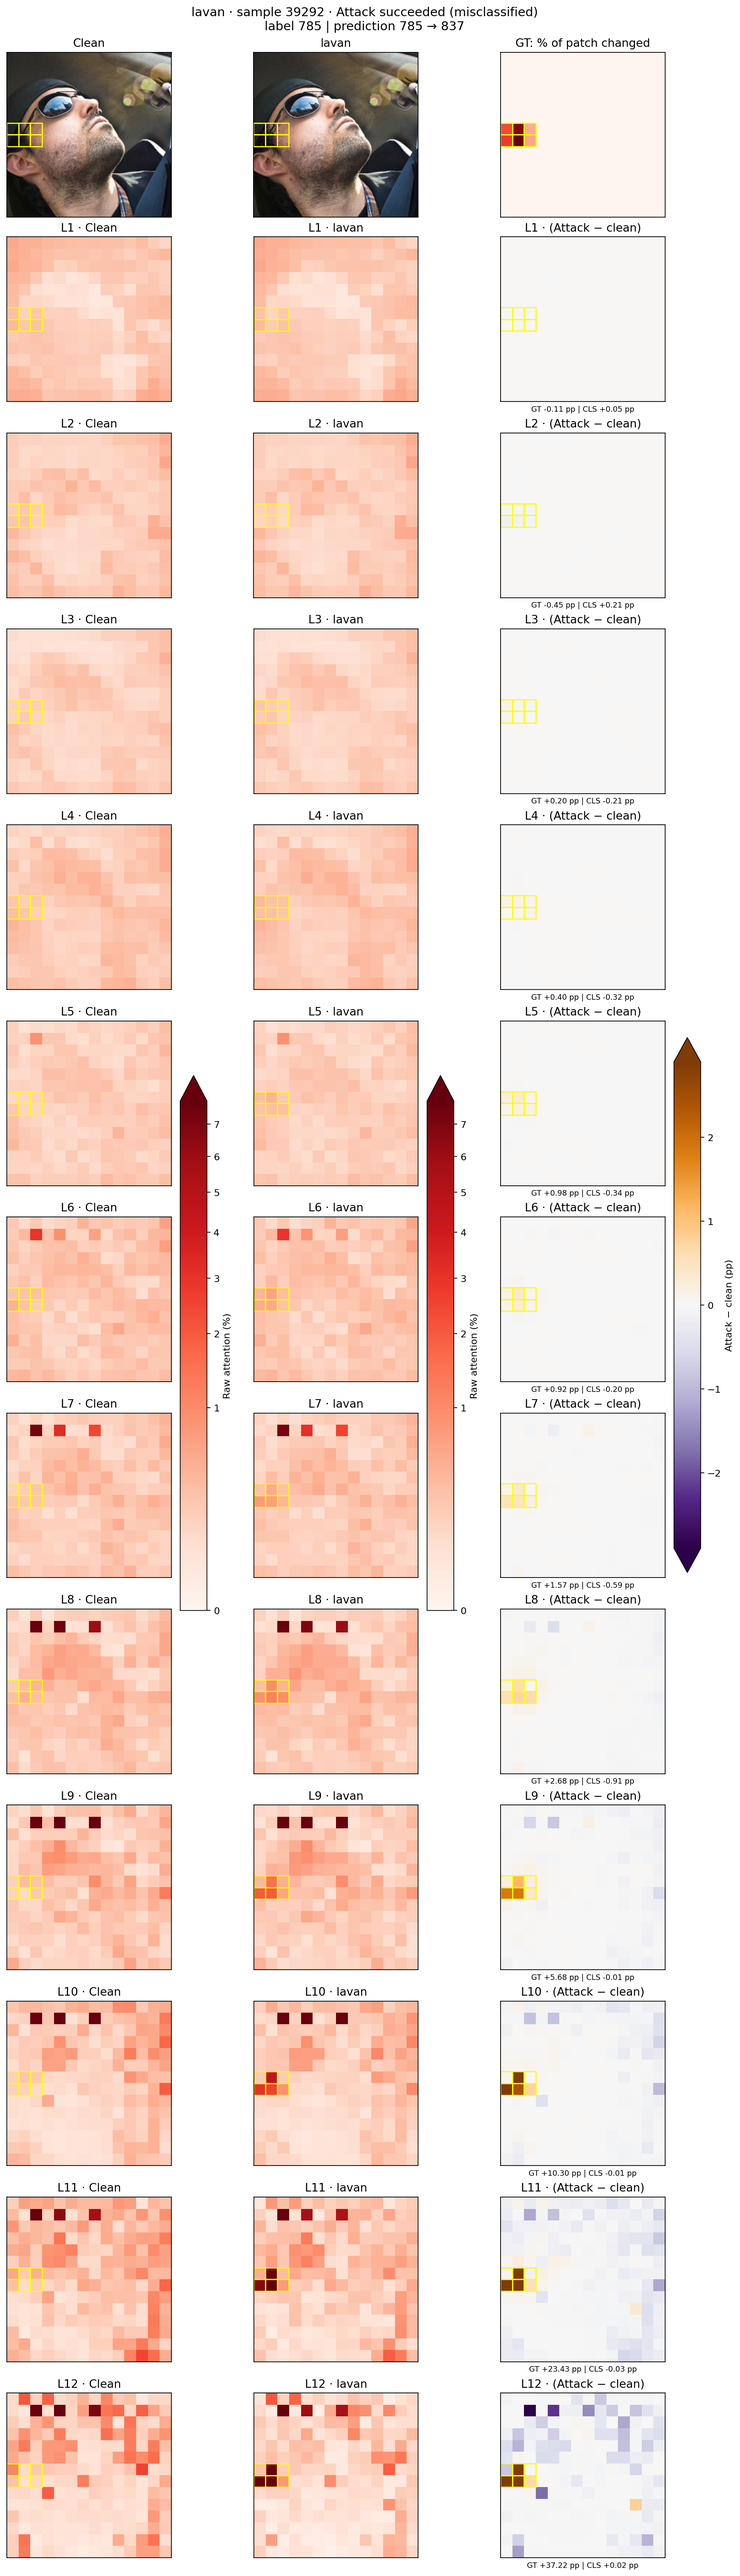
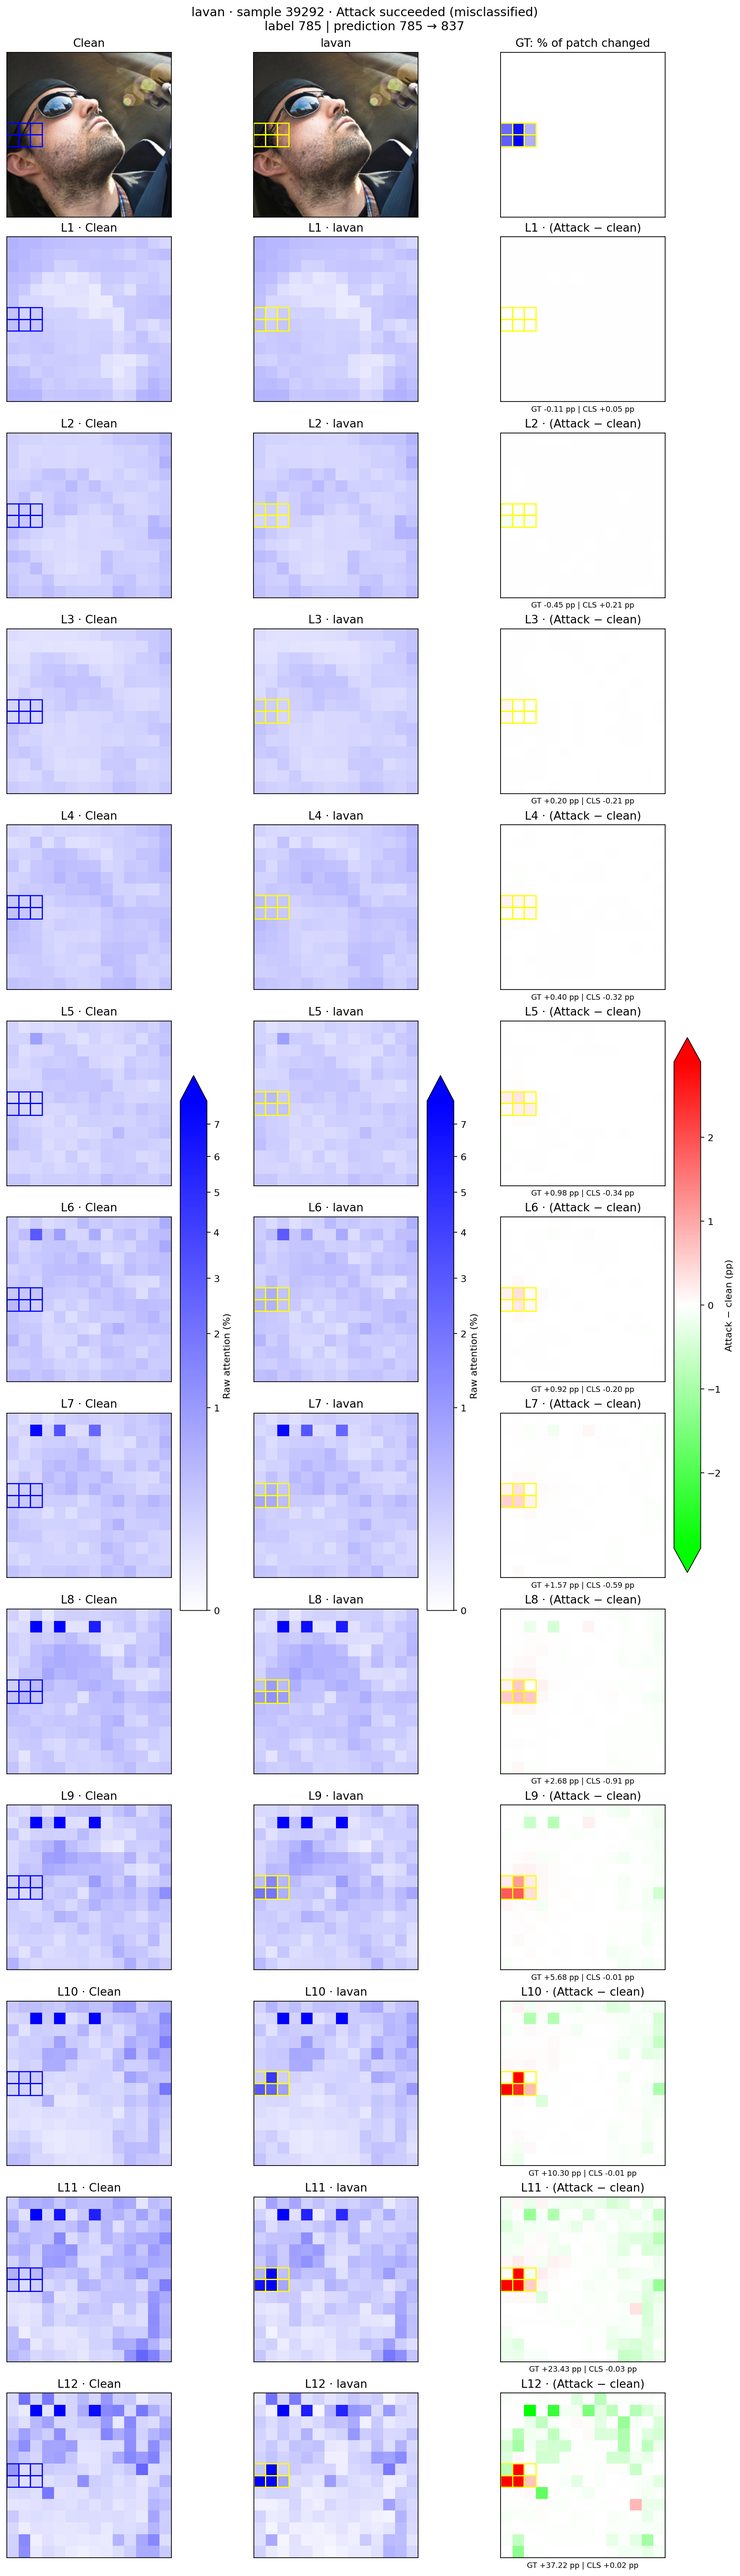
Use draw_boxes clean/attack box colors; blue raw heatmap, green-red difference with pure-color ends
Clean panels outline GT in CLEAN_BOX_COLOR (blue), attacked/difference panels in
ATTACK_BOX_COLOR (yellow), matching ground_truth/draw_boxes.py. Raw attention now
white->pure blue; attack-minus-clean is pure green (lost) -> white -> pure red
(more attention concentrated). Both ends are pure colors instead of trending to
black, which made the panels indistinguishable.

diff --git a/01_patch_attack_detector/experiments/characterization/02_compare_attention_success_failure.py b/01_patch_attack_detector/experiments/characterization/02_compare_attention_success_failure.py
@@ -15,11 +15,11 @@ import numpy as np
 import matplotlib
 matplotlib.use('Agg')
 import matplotlib.pyplot as plt
-from matplotlib.colors import PowerNorm, TwoSlopeNorm
+from matplotlib.colors import LinearSegmentedColormap, PowerNorm, TwoSlopeNorm
 
 HERE = Path(__file__).resolve().parent
 sys.path.insert(0, str(HERE.parents[1] / 'ground_truth'))   # for `import draw_boxes`
-from draw_boxes import draw_patch_box, ATTACK_BOX_COLOR   # noqa: E402 -- GT 박스는 여기서 그대로 가져다 쓴다
+from draw_boxes import draw_patch_box, CLEAN_BOX_COLOR, ATTACK_BOX_COLOR   # noqa: E402 -- GT 박스는 여기서 그대로 가져다 쓴다
 
 MASS_ATOL = 1e-4
 # 결과 이름 자체가 "무엇이 성공/실패했는지"를 말하게 한다 -- "failure"만 보면 공격이
@@ -28,11 +28,10 @@ OUTCOMES = {'attack_success': (1, 'Attack succeeded (misclassified)'),
             'attack_fail': (0, 'Attack failed (still correct)')}
 # 방어 관점에서 공격 성공=critical, 실패=good인 상태 색 사용 -- 이름의 의미와 색이 서로 확인해준다.
 OUTCOME_COLORS = {'attack_success': '#d03b3b', 'attack_fail': '#0ca30c'}
-# 히트맵에는 파란색을 쓰지 않는다(발산 색이 GT 박스의 노랑과 헷갈리지 않게). 순차 색은
-# ColorBrewer 'Reds'(옅은 분홍 -> 짙은 빨강), 발산 색은 'PuOr'(보라<->주황, 파랑 없는
-# 발산 팔레트) -- 둘 다 matplotlib 내장, 색맹 대비까지 이미 검증된 표준 팔레트다.
-SEQUENTIAL = plt.get_cmap('Reds')
-DIVERGING = 'PuOr_r'
+# 양 끝이 검정으로 가면 원본/공격/차이가 다 어두워져서 구분이 안 된다 -- 끝 색을 원색으로 둔다.
+# raw attention: 흰색 -> 순수 파랑. 차이: 감소=순수 초록, 0=흰색, 증가(attention이 더 몰림)=순수 빨강.
+SEQUENTIAL = LinearSegmentedColormap.from_list('white_blue', ['#ffffff', '#0000ff'])
+DIVERGING = LinearSegmentedColormap.from_list('green_white_red', ['#00ff00', '#ffffff', '#ff0000'])
 METRICS = {'tv': 'Total variation', 'gt_delta': 'Attention change in GT region (pp)'}
 
 
@@ -136,12 +135,13 @@ def save_figure(figure, path):
     plt.close(figure)
 
 
-def draw_gt(axis, coverage, side):
+def draw_gt(axis, coverage, side, color):
     """부분적으로라도 변경된 토큰에 테두리를 표시한다 -- ground_truth/draw_boxes.py의
-    draw_patch_box를 그대로 쓴다(색도 거기 정의된 ATTACK_BOX_COLOR로 통일). 이 맵은
-    imshow 기본 extent(칸 중심이 정수 좌표)라 patch_size=1, offset=-.5로 반 칸 보정한다."""
+    draw_patch_box를 그대로 쓴다. draw_boxes.py와 같은 규약: clean 패널은 CLEAN_BOX_COLOR(파랑),
+    공격 후/차이 패널은 ATTACK_BOX_COLOR(노랑). 이 맵은 imshow 기본 extent(칸 중심이 정수
+    좌표)라 patch_size=1, offset=-.5로 반 칸 보정한다."""
     for patch_i in np.flatnonzero(coverage > 0):
-        draw_patch_box(axis, int(patch_i), ATTACK_BOX_COLOR, ppl=side, patch_size=1, lw=1.2, offset=-.5)
+        draw_patch_box(axis, int(patch_i), color, ppl=side, patch_size=1, lw=1.2, offset=-.5)
 
 
 def robust_scale(values, percentile=99):
@@ -171,15 +171,15 @@ def draw_maps(data, manifest, attack, sample_i, metrics, layers, scales, status_
     attack_img = np.clip((data[attack + '__images'][sample_i] * std + mean).transpose(1, 2, 0), 0, 1)
     coverage_pct = coverage.reshape(side, side) * 100
 
-    top_panels = [(0, clean_img, 'Clean', False), (1, attack_img, attack, False),
-                 (2, coverage_pct, 'GT: % of patch changed', True)]
-    for column, image, title, is_coverage in top_panels:
+    top_panels = [(0, clean_img, 'Clean', False, CLEAN_BOX_COLOR), (1, attack_img, attack, False, ATTACK_BOX_COLOR),
+                 (2, coverage_pct, 'GT: % of patch changed', True, ATTACK_BOX_COLOR)]
+    for column, image, title, is_coverage, box_color in top_panels:
         axis = axes[0, column]
         if is_coverage:
             axis.imshow(image, cmap=SEQUENTIAL, vmin=0, vmax=100, extent=extent)
         else:
             axis.imshow(image, extent=extent)
-        draw_gt(axis, coverage, side)
+        draw_gt(axis, coverage, side, box_color)
         axis.set_title(title)
         axis.set_xticks([])
         axis.set_yticks([])
@@ -198,7 +198,7 @@ def draw_maps(data, manifest, attack, sample_i, metrics, layers, scales, status_
             else:
                 image = axis.imshow(values, cmap=SEQUENTIAL, norm=mass_norm, interpolation='nearest')
             column_image[column] = image
-            draw_gt(axis, coverage, side)
+            draw_gt(axis, coverage, side, CLEAN_BOX_COLOR if key == 'clean' else ATTACK_BOX_COLOR)
             axis.set_title(f'L{layer_i + 1} · {title}')
             axis.set_xticks([])
             axis.set_yticks([])
@@ -366,11 +366,12 @@ def main():
         'misclassified) vs. `ex_attack_fail_*` (attack failed, image still correct). These '
         'names describe the ATTACK\'s outcome, not a pipeline failure.\n'
         '- Maps show CLS-query attention to each patch key, head-averaged, CLS key mass kept '
-        '(not renormalized away). The yellow box (same color as ground_truth/draw_boxes.py\'s '
-        'ATTACK_BOX_COLOR, reused directly from there) marks GT patches (any pixel actually changed).\n'
-        '- No blue anywhere: sequential color (white -> dark red, \'Reds\') covers raw attention; '
-        'diverging color (purple negative / orange positive, \'PuOr_r\') covers attack-minus-clean '
-        'change, centered on zero. Both '
+        '(not renormalized away). GT patches (any pixel actually changed) are outlined with '
+        'ground_truth/draw_boxes.py\'s colors, reused directly: blue on Clean panels, yellow on '
+        'attacked/difference panels.\n'
+        '- Raw attention: white -> pure blue. Attack-minus-clean: pure green (attention lost) -> '
+        'white (no change) -> pure red (attention concentrated more). Ends are pure colors, not '
+        'dark/black, so panels stay distinguishable at the extremes. Both '
         'use a 99.5th-percentile cap (not the true max) shared across every block of a given '
         'attack, so a single extreme sample or patch can\'t blank out the rest, while the real '
         'block-to-block story (near-zero early on, then increasingly concentrated) still shows. '

diff --git a/01_patch_attack_detector/results/characterization/README.md b/01_patch_attack_detector/results/characterization/README.md
@@ -3,8 +3,8 @@
 Generated from run `/home/jooyumm/ViT_robust/01_patch_attack_detector/results/characterization/attention_comparison/run_s42` — its `manifest.json` and `data/` hold the reproducible source (seeds, hashes, raw images/attention); re-running this script only overwrites the files below, not that run.
 
 - One folder per attack (`patchfool/`, `lavan/`), no outcome subfolders — the outcome is in the filename instead: `ex_attack_success_*` (attack succeeded, image misclassified) vs. `ex_attack_fail_*` (attack failed, image still correct). These names describe the ATTACK's outcome, not a pipeline failure.
-- Maps show CLS-query attention to each patch key, head-averaged, CLS key mass kept (not renormalized away). The yellow box (same color as ground_truth/draw_boxes.py's ATTACK_BOX_COLOR, reused directly from there) marks GT patches (any pixel actually changed).
-- No blue anywhere: sequential color (white -> dark red, 'Reds') covers raw attention; diverging color (purple negative / orange positive, 'PuOr_r') covers attack-minus-clean change, centered on zero. Both use a 99.5th-percentile cap (not the true max) shared across every block of a given attack, so a single extreme sample or patch can't blank out the rest, while the real block-to-block story (near-zero early on, then increasingly concentrated) still shows. Values above the cap are drawn at the top color, marked by the colorbar's arrow, not silently redrawn.
+- Maps show CLS-query attention to each patch key, head-averaged, CLS key mass kept (not renormalized away). GT patches (any pixel actually changed) are outlined with ground_truth/draw_boxes.py's colors, reused directly: blue on Clean panels, yellow on attacked/difference panels.
+- Raw attention: white -> pure blue. Attack-minus-clean: pure green (attention lost) -> white (no change) -> pure red (attention concentrated more). Ends are pure colors, not dark/black, so panels stay distinguishable at the extremes. Both use a 99.5th-percentile cap (not the true max) shared across every block of a given attack, so a single extreme sample or patch can't blank out the rest, while the real block-to-block story (near-zero early on, then increasingly concentrated) still shows. Values above the cap are drawn at the top color, marked by the colorbar's arrow, not silently redrawn.
 - GT Δ: attention change summed over GT patches (raw, not renormalized). TV: 0.5 × sum(|attack - clean|) over all 197 tokens including CLS.
 - The layer table uses the *median* over all clean-correct samples; flagged blocks (⚠) are exploratory candidates by descriptive statistics, not a significance test or causal claim.
 - No CSVs here by design — the table above is the numeric result worth keeping. Per-sample/per-head raw numbers are recomputable from `/home/jooyumm/ViT_robust/01_patch_attack_detector/results/characterization/attention_comparison/run_s42/data/` with `compute_metrics()` in this folder's script if ever needed.

diff --git a/01_patch_attack_detector/README.md b/01_patch_attack_detector/README.md
@@ -112,14 +112,14 @@ results/characterization/
 CLS key의 질량을 제거하거나 patch 부분을 재정규화하지 않는다. 맵에서 CLS 칸은 생략하지만
 CLS 변화량은 별도로 표시한다. 사진 행을 포함한 모든 행이 같은 3열 grid를 쓰고, 컬러바는
 사진 행까지 포함한 열 전체에서 폭을 빌려온다 — 컬러바가 붙는 마지막 행만 좁아져서 다른 행과
-어긋나 보이는 문제를 막기 위해서다. 히트맵에는 파란색을 쓰지 않는다 — 순차 색(흰색→짙은
-빨강, `Reds`)은 raw attention을, 발산 색(보라↔주황, `PuOr_r`)은 attack−clean 변화량을
-나타낸다. 색 범위는 같은 공격의 12레이어 전체를 모아 계산한 99.5퍼센타일 상한을 쓴다 —
-극단적인 표본 하나가 스케일을 지배하지 않게 하면서도, 초반은 옅고 후반으로 갈수록 진해지는
-실제 변화는 그대로 드러난다. 상한을 넘는 값은 컬러바의 화살표로 표시하고 맨 끝 색으로
-그린다(값 자체를 바꾸지 않는다). 노란색 테두리는 GT 토큰이다 — `ground_truth/draw_boxes.py`의
-`ATTACK_BOX_COLOR`/`draw_patch_box`를 그대로 가져다 쓴 것으로, 색도 박스 그리는 코드도 새로
-만들지 않았다.
+어긋나 보이는 문제를 막기 위해서다. raw attention 히트맵은 흰색→순수 파랑, attack−clean은
+순수 초록(감소)→흰색→순수 빨강(attention이 더 몰림)이다. 양 끝이 검정으로 가면 패널끼리 구분이
+안 되어서 끝 색을 원색으로 뒀다. 색 범위는 같은 공격의 12레이어 전체를 모아 계산한
+99.5퍼센타일 상한을 쓴다 — 극단적인 표본 하나가 스케일을 지배하지 않게 하면서도, 초반은 옅고
+후반으로 갈수록 진해지는 실제 변화는 그대로 드러난다. 상한을 넘는 값은 컬러바의 화살표로
+표시하고 맨 끝 색으로 그린다(값 자체를 바꾸지 않는다). GT 토큰 테두리는 `ground_truth/draw_boxes.py`의
+규약을 그대로 따른다 — clean 패널은 파랑(`CLEAN_BOX_COLOR`), 공격 후/차이 패널은 노랑
+(`ATTACK_BOX_COLOR`). 박스 그리는 `draw_patch_box`와 색 상수를 거기서 import해서 쓴다.
 
 - **TV**: CLS를 포함한 `0.5 × Σ|attack − clean|`. 맵 전체의 변화 크기.
 - **GT 증감**: coverage > 0인 토큰으로 들어가는 raw attention의 변화량 합.
